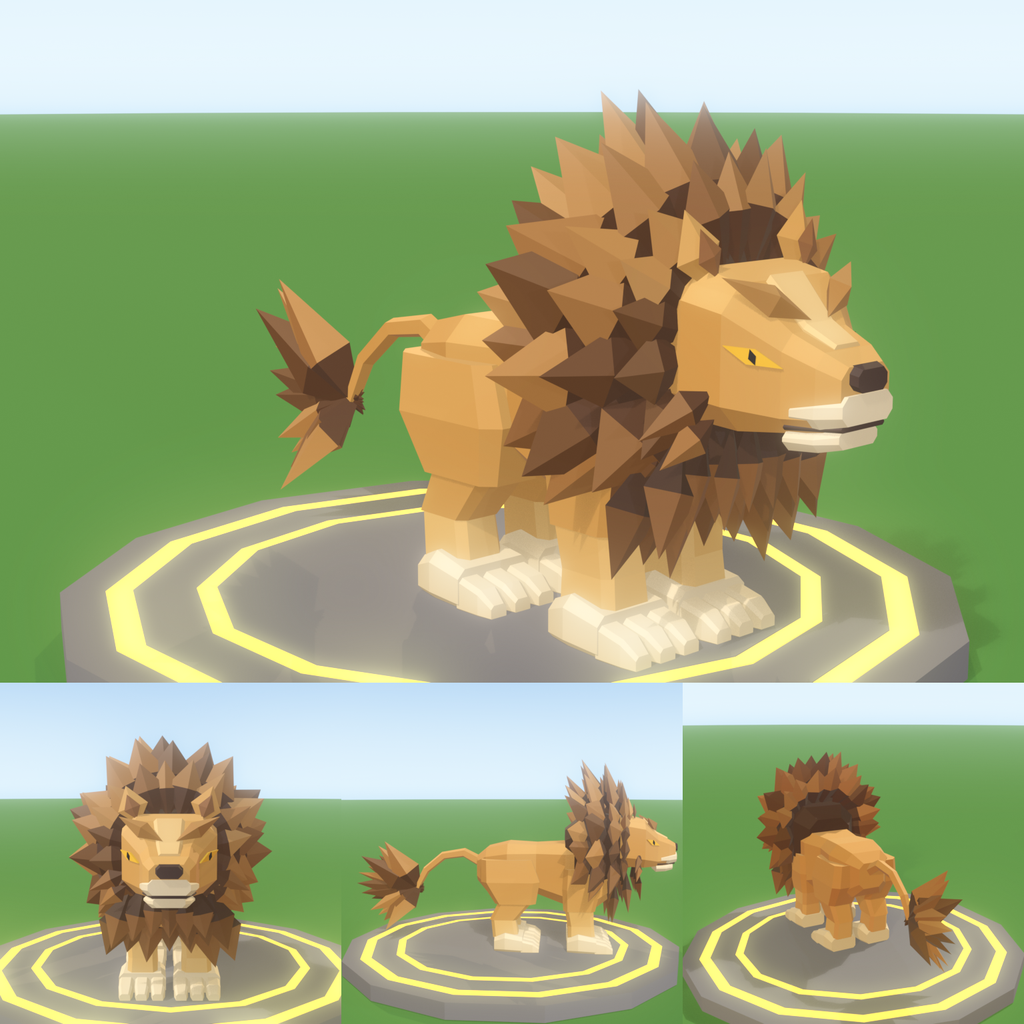
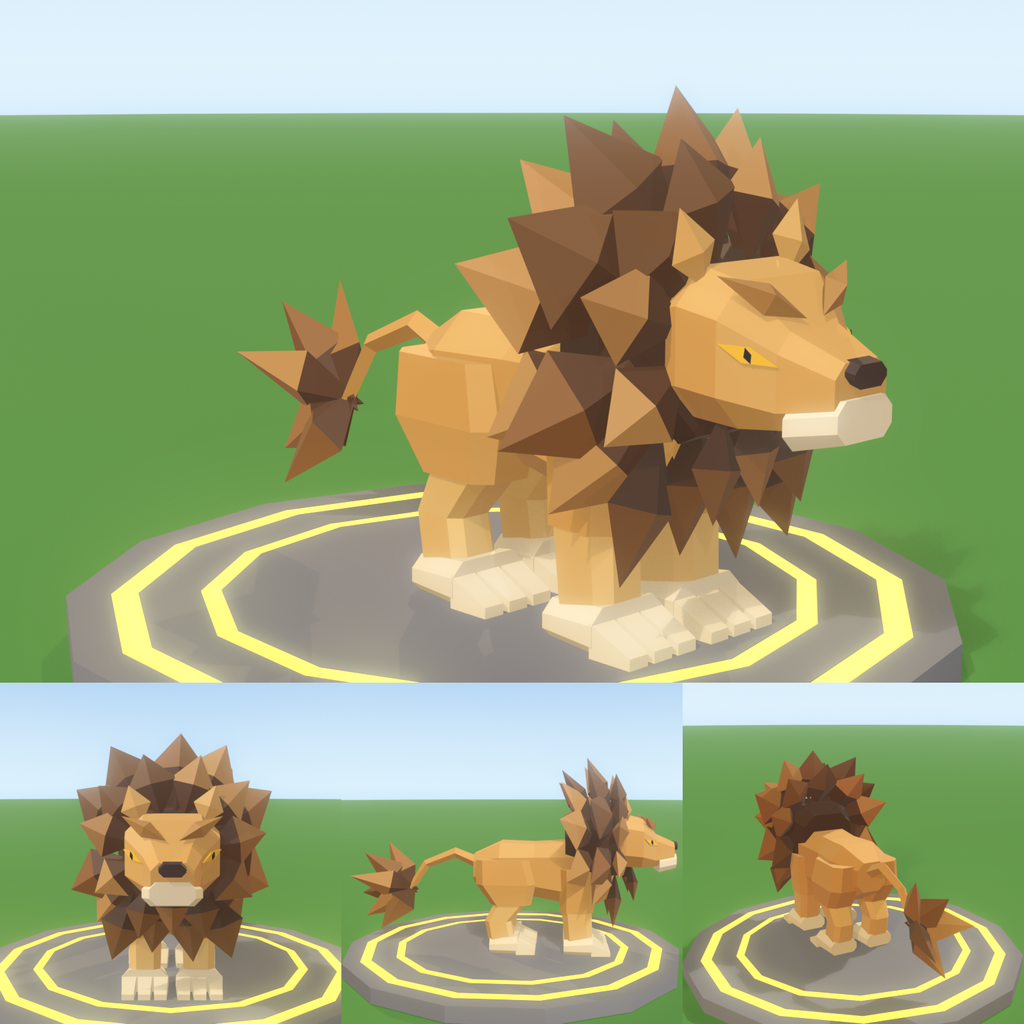
STATION-033: plainer lions, fewer and bigger facets (about 30 mane shards, 1,200 triangles)

diff --git a/tools/blender/stations/assets/lions.py b/tools/blender/stations/assets/lions.py
@@ -1,8 +1,11 @@
-"""The lions (decision 0050): the Lion, the Sun Lion and the Shadow Lion as faceted low-poly cats, after
-SHANNON's Sun Lion reference card. Blocky lofted bodies, big paws with three toes, an angular face
-with slit eyes, and a mane of layered crystal shards. Nothing is smooth: every face has one colour
-(the `lp` colour attribute), picked from three tones by which way the face points plus a little
-chance, so the facets read in any light and bake straight into the texture.
+"""The lions (decision 0050): the Lion, the Sun Lion and the Shadow Lion as chunky low-poly cats, after
+SHANNON's Sun Lion reference card. A few big blocks: a lofted body and legs, paws with three toes, a
+boxy head with slit eyes, and a mane of some thirty large crystal shards. Nothing is smooth: every
+face has one colour (the `lp` colour attribute), picked from three tones by which way the face points
+plus a little chance, so the facets read in any light and bake straight into the texture.
+
+Keep it plain: SHANNON found a denser version (75 shards, bevelled sections, small face pieces) too
+detailed. Add a piece only if it reads from across the arena.
 
 Jointed like every creature: body, head (with the mane), four legs, tail, and Neon `_glow` pieces.
 Facing Blender -Y; left is +X.
@@ -102,7 +105,8 @@ def loft(name, rings, tones, rng, **kw):
 
 
 def yring(y, zc, w, up, down, c, x=0.0):
-    """An upright rectangle with cut corners at depth y (a section of a body, a head, a paw)."""
+    """An upright rectangle with cut corners at depth y (a section of a body, a head, a paw). A big
+    cut `c` makes an even octagon: chunky, with no thin bevel faces."""
     top, bot = zc + up, zc - down
     return [(x + w - c, y, top), (x + w, y, top - c), (x + w, y, bot + c), (x + w - c, y, bot), (x + c - w, y, bot), (x - w, y, bot + c), (x - w, y, top - c), (x + c - w, y, top)]
 
@@ -112,7 +116,12 @@ def zring(x, y, z, wx, wy, c):
     return [(x + wx - c, y - wy, z), (x + wx, y - wy + c, z), (x + wx, y + wy - c, z), (x + wx - c, y + wy, z), (x - wx + c, y + wy, z), (x - wx, y + wy - c, z), (x - wx, y - wy + c, z), (x - wx + c, y - wy, z)]
 
 
-def shard(base, tip, width, thick, tones, rng, face=(0, -1, 0), at=0.36, m=None, emit=0.0, name="shard"):
+def quad(y, zc, w, up, down, x=0.0):
+    """A plain upright rectangle at depth y (a toe)."""
+    return [(x + w, y, zc + up), (x + w, y, zc - down), (x - w, y, zc - down), (x - w, y, zc + up)]
+
+
+def shard(base, tip, width, thick, tones, rng, face=(0, -1, 0), at=0.5, m=None, emit=0.0, name="shard"):
     """A crystal shard: a stretched eight-faced gem from base to tip, `width` across and `thick` through
     at its widest (`at` of the way along), its broad faces turned towards `face`. tones: one triple, or
     (root, tip) for a shard that lightens towards its point."""
@@ -140,63 +149,53 @@ def plate(name, p, frame, outline, thick, tones, rng, lift=0.004, m=None):
     return mesh(name, lo + [q + z * thick for q in lo], faces, tones, rng, m=m)
 
 
-def paw(x, y, tones, rng, claw=None):
-    """A broad block of a paw with three toes, from the heel at y + 0.42 to the toes at y - 0.9."""
-    parts = [loft("paw", [yring(y + 0.42, 0.24, 0.4, 0.2, 0.24, 0.1, x), yring(y + 0.1, 0.3, 0.5, 0.28, 0.3, 0.12, x), yring(y - 0.42, 0.26, 0.52, 0.22, 0.26, 0.1, x)], tones, rng)]
+def paw(x, y, tones, rng):
+    """A broad block of a paw with three wedge toes, from the heel at y + 0.42 to the toes at y - 0.9."""
+    parts = [loft("paw", [yring(y + 0.42, 0.24, 0.42, 0.2, 0.24, 0.14, x), yring(y - 0.4, 0.28, 0.52, 0.26, 0.28, 0.16, x)], tones, rng)]
     for dx in (-0.35, 0.0, 0.35):
-        parts.append(loft("toe", [yring(y - 0.38, 0.2, 0.155, 0.2, 0.2, 0.05, x + dx), yring(y - 0.72, 0.17, 0.15, 0.15, 0.17, 0.05, x + dx), yring(y - 0.9, 0.11, 0.11, 0.07, 0.11, 0.04, x + dx)], tones, rng))
-        if claw:
-            parts.append(shard((x + dx, y - 0.84, 0.15), (x + dx, y - 1.12, 0.02), 0.11, 0.09, claw, rng, face=(0, 0, 1), name="claw"))
+        parts.append(loft("toe", [quad(y - 0.36, 0.2, 0.16, 0.2, 0.2, x + dx), quad(y - 0.9, 0.1, 0.13, 0.06, 0.1, x + dx)], tones, rng))
     return parts
 
 
 def lion_model(p, seed):
-    """The faceted lion from a palette `p` (see the three makers below). Returns (groups, joints)."""
+    """The lion from a palette `p` (see the three makers below). Returns (groups, joints)."""
     rng = random.Random(seed)
-    T = lambda key: tone(p[key], p.get("kind", WARM))  # noqa: E731
+    kind = p.get("kind", WARM)
+    T = lambda key: tone(p[key], kind)  # noqa: E731
     body, fore, cream = T("body"), T("fore"), tone(p["paw"], p.get("paw_kind", PALE))
     glow = k.glow(p["glow"]) if p.get("glow") else None
     groups = {"body": [], "head": [], "head_glow": [], "body_glow": [], "tail": [], "tail_glow": []}
 
     # the torso: a deep chest, a tucked waist, square hips
-    torso = loft("torso", [yring(*r) for r in ((-1.0, 2.35, 0.55, 0.6, 0.65, 0.22), (-0.45, 2.3, 0.92, 0.95, 0.95, 0.28), (0.5, 2.3, 0.9, 0.9, 0.9, 0.28), (1.35, 2.38, 0.74, 0.78, 0.68, 0.24), (2.2, 2.35, 0.88, 0.85, 0.8, 0.28), (2.85, 2.35, 0.7, 0.7, 0.6, 0.24), (3.15, 2.4, 0.4, 0.4, 0.35, 0.15))], body, rng)
+    torso = loft("torso", [yring(*r) for r in ((-1.0, 2.35, 0.6, 0.65, 0.7, 0.3), (-0.3, 2.3, 0.95, 0.98, 0.98, 0.42), (1.3, 2.36, 0.8, 0.82, 0.74, 0.36), (2.3, 2.35, 0.9, 0.86, 0.82, 0.4), (3.1, 2.4, 0.45, 0.45, 0.4, 0.2))], body, rng)
     groups["body"].append(torso)
 
     # legs: the upper leg in the body's colour, the lower lighter, a pale paw
     thighs = {}
     for s in (1, -1):
         x = s * 0.6
-        front = [
-            loft("arm", [zring(x, 0.0, 2.5, 0.42, 0.55, 0.14), zring(x, 0.02, 1.9, 0.44, 0.56, 0.14), zring(x, 0.08, 1.25, 0.38, 0.46, 0.12)], body, rng),
-            loft("forearm", [zring(x, 0.08, 1.3, 0.35, 0.42, 0.11), zring(x, 0.02, 0.8, 0.32, 0.38, 0.1), zring(x, 0.0, 0.42, 0.34, 0.4, 0.1)], fore, rng),
-            *paw(x, 0.0, cream, rng, p.get("claw") and tone(p["claw"], PALE)),
-        ]
-        thigh = loft("thigh", [zring(x, 2.22, 2.75, 0.4, 0.74, 0.16), zring(x, 2.1, 2.1, 0.48, 0.86, 0.18), zring(x, 1.95, 1.45, 0.42, 0.6, 0.14)], body, rng)
-        back = [
-            thigh,
-            loft("shin", [zring(x, 1.95, 1.5, 0.36, 0.5, 0.12), zring(x, 2.32, 0.95, 0.31, 0.4, 0.1)], body, rng),
-            loft("hock", [zring(x, 2.32, 1.0, 0.3, 0.36, 0.1), zring(x, 2.24, 0.42, 0.32, 0.38, 0.1)], fore, rng),
-            *paw(x, 2.15, cream, rng, p.get("claw") and tone(p["claw"], PALE)),
-        ]
+        thigh = loft("thigh", [zring(x, 2.2, 2.75, 0.42, 0.76, 0.2), zring(x, 2.1, 2.05, 0.5, 0.86, 0.22), zring(x, 1.95, 1.45, 0.42, 0.58, 0.18)], body, rng)
         thighs[s] = thigh
-        groups["leg_f" + ("l" if s > 0 else "r")] = front
-        groups["leg_b" + ("l" if s > 0 else "r")] = back
+        groups["leg_f" + ("l" if s > 0 else "r")] = [
+            loft("arm", [zring(x, 0.0, 2.5, 0.44, 0.56, 0.2), zring(x, 0.06, 1.25, 0.4, 0.48, 0.18)], body, rng),
+            loft("forearm", [zring(x, 0.06, 1.3, 0.36, 0.43, 0.16), zring(x, 0.0, 0.42, 0.34, 0.4, 0.15)], fore, rng),
+            *paw(x, 0.0, cream, rng),
+        ]
+        groups["leg_b" + ("l" if s > 0 else "r")] = [
+            thigh,
+            loft("shin", [zring(x, 1.95, 1.5, 0.36, 0.48, 0.15), zring(x, 2.34, 0.95, 0.31, 0.38, 0.13), zring(x, 2.24, 0.42, 0.32, 0.38, 0.13)], fore, rng),
+            *paw(x, 2.15, cream, rng),
+        ]
 
-    # the head: a boxy muzzle stepping up to a broad brow
-    hc = Vector((0, -1.5, 3.2))
-    skull = loft("skull", [yring(*r) for r in ((-2.45, 2.98, 0.3, 0.22, 0.22, 0.09), (-2.28, 2.98, 0.4, 0.32, 0.3, 0.11), (-2.0, 3.0, 0.46, 0.42, 0.36, 0.13), (-1.65, 3.15, 0.76, 0.64, 0.52, 0.22), (-1.25, 3.2, 0.78, 0.68, 0.55, 0.24), (-0.8, 3.15, 0.64, 0.6, 0.5, 0.22))], body, rng)
+    # the head: a boxy muzzle stepping up to a broad brow, one pale block for the lips and chin
+    skull = loft("skull", [yring(*r) for r in ((-2.45, 2.98, 0.32, 0.24, 0.24, 0.12), (-2.0, 3.0, 0.46, 0.42, 0.36, 0.16), (-1.65, 3.15, 0.76, 0.64, 0.52, 0.28), (-1.25, 3.2, 0.78, 0.68, 0.55, 0.3), (-0.8, 3.15, 0.64, 0.6, 0.5, 0.26))], body, rng)
     head = groups["head"]
     head.append(skull)
-    muzzle = tone(p["muzzle"], p.get("paw_kind", PALE))
-    head.append(loft("lips", [yring(-2.48, 2.88, 0.315, 0.1, 0.13, 0.07), yring(-2.28, 2.86, 0.415, 0.12, 0.15, 0.09), yring(-2.08, 2.84, 0.455, 0.1, 0.13, 0.09)], muzzle, rng))
-    head.append(loft("mouth", [yring(-2.44, 2.72, 0.27, 0.025, 0.025, 0.02), yring(-2.0, 2.7, 0.42, 0.025, 0.025, 0.02)], tone(p["nose"]), rng))
-    head.append(loft("chin", [yring(-2.4, 2.62, 0.24, 0.085, 0.07, 0.05), yring(-2.22, 2.6, 0.33, 0.09, 0.09, 0.07), yring(-1.98, 2.6, 0.4, 0.09, 0.1, 0.08)], muzzle, rng))
-    head.append(loft("nose", [yring(-2.52, 3.1, 0.18, 0.08, 0.1, 0.05), yring(-2.34, 3.14, 0.24, 0.1, 0.1, 0.06), yring(-2.26, 3.2, 0.17, 0.06, 0.06, 0.04)], tone(p["nose"]), rng))
-    head.append(loft("bridge", [yring(-2.27, 3.3, 0.16, 0.04, 0.04, 0.03), yring(-2.0, 3.43, 0.2, 0.05, 0.05, 0.04), yring(-1.66, 3.78, 0.25, 0.05, 0.1, 0.05)], T("bridge"), rng))
+    head.append(loft("muzzle", [yring(-2.5, 2.8, 0.34, 0.14, 0.2, 0.1), yring(-2.08, 2.76, 0.47, 0.14, 0.26, 0.13)], tone(p["muzzle"], p.get("paw_kind", PALE)), rng))
+    head.append(loft("nose", [yring(-2.54, 3.12, 0.2, 0.09, 0.1, 0.07), yring(-2.3, 3.18, 0.22, 0.08, 0.08, 0.07)], tone(p["nose"]), rng))
     for s in (1, -1):
         head.append(shard((s * 0.1, -2.0, 3.5), (s * 0.8, -1.68, 3.86), 0.28, 0.24, T("brow"), rng, face=(0, -1, 0.3), at=0.45, name="brow"))
         head.append(shard((s * 0.5, -1.3, 3.7), (s * 0.72, -1.22, 4.34), 0.52, 0.22, body, rng, at=0.45, name="ear"))
-        head.append(shard((s * 0.53, -1.41, 3.8), (s * 0.69, -1.36, 4.2), 0.28, 0.1, T("ear_in"), rng, at=0.45, name="ear"))
         # a slanted slit of an eye on the plane between the muzzle and the cheek
         at, n = k.land(skull, (s * 0.55, -1.8, 3.24), (s * 0.6, -0.8, 0.0))
         fx, fy, fz = k._frame(n)
@@ -206,62 +205,53 @@ def lion_model(p, seed):
         else:
             head.append(plate("eye", at, (fx * s, fy, fz), slit, 0.035, tone(p["iris"]), rng))
             head.append(plate("pupil", at, (fx * s, fy, fz), [(0.0, -0.05), (0.055, 0.0), (0.045, 0.075), (-0.005, 0.02)], 0.02, tone(INK), rng, lift=0.036))
-        for j, (dz, long_) in enumerate(((0.0, 0.75), (-0.22, 0.6))):  # cheek tufts
-            c0 = Vector((s * 0.7, -1.55, 2.95 + dz))
-            head.append(shard(c0, c0 + Vector((s * 0.75, 0.25, -0.4 - j * 0.2)).normalized() * long_, 0.34, 0.16, (tone(p["mane_root"], p.get("mane_kind", p.get("kind", WARM))), tone(p["mane"][j % len(p["mane"])], p.get("mane_kind", p.get("kind", WARM)))), rng, face=(0, -1, 0.2)))
-    if p.get("fang"):
-        for s in (1, -1):
-            head.append(shard((s * 0.24, -2.36, 2.74), (s * 0.24, -2.38, 2.42), 0.11, 0.09, tone(p["fang"], PALE), rng, name="fang"))
-
+        if p.get("fang"):
+            head.append(shard((s * 0.24, -2.36, 2.62), (s * 0.24, -2.38, 2.28), 0.13, 0.1, tone(p["fang"], PALE), rng, name="fang"))
     grow = Matrix.Translation((0, -1.0, 3.1)) @ Matrix.Scale(HEAD, 4) @ Matrix.Translation((0, 1.0, -3.1))
     for ob in head + groups["head_glow"]:
         ob.data.transform(grow)
 
-    # the mane: a dark core, then rings of shards raked back, long on top, and a bib down the chest
-    head.append(loft("core", [yring(-1.2, 3.15, 0.8, 0.8, 0.75, 0.3), yring(-0.6, 3.05, 1.1, 1.05, 1.0, 0.4), yring(0.05, 2.95, 1.05, 1.0, 0.95, 0.4), yring(0.5, 2.9, 0.7, 0.7, 0.65, 0.28)], T("core"), rng, emit=p.get("lit", 0.0)))
-    kind, lit = p.get("mane_kind", p.get("kind", WARM)), p.get("lit", 0.0)
+    # the mane: a core, three rings of big shards raked back, and a bib down the chest
+    mane_kind, lit = p.get("mane_kind", kind), p.get("lit", 0.0)
+    root, deep = tone(p["mane_root"], mane_kind), tone(p["bib_root"], mane_kind)
+    head.append(loft("core", [yring(-1.2, 3.15, 0.85, 0.85, 0.8, 0.36), yring(-0.5, 3.05, 1.15, 1.1, 1.05, 0.48), yring(0.4, 2.95, 0.8, 0.8, 0.75, 0.34)], T("core"), rng, emit=lit))
+    count = 0
 
-    def lock(base, tip, width, tips, root, face, spark):
-        if spark and glow:
-            groups["head_glow"].append(shard(base, tip, width * 0.4, width * 0.22, None, rng, face=face, at=0.5, m=glow))
+    def lock(base, tip, width, tips, tones, face):
+        nonlocal count
+        count += 1
+        if glow and p.get("sparks") and count % p["sparks"] == 0:  # every so many, a glowing one
+            groups["head_glow"].append(shard(base, tip, width * 0.6, width * 0.3, None, rng, face=face, m=glow))
         else:
-            head.append(shard(base, tip, width, width * 0.4, (root, tone(rng.choice(tips), kind)), rng, face=face, at=0.5, emit=lit))
+            head.append(shard(base, tip, width, width * 0.45, (tones, tone(rng.choice(tips), mane_kind)), rng, face=face, emit=lit))
 
-    def ring(y, zc, radius, n, length, width, sweep, a0, a1, tips, root):
+    for y, zc, radius, n, length, width, sweep, a0, a1 in ((-1.15, 3.3, 0.95, 8, 0.95, 1.0, 0.15, -40, 220), (-0.8, 3.22, 1.05, 9, 1.35, 1.3, 0.45, -58, 238), (-0.3, 3.12, 1.0, 7, 1.3, 1.3, 0.75, -30, 210)):
         for i in range(n):
             a = math.radians(a0 + (a1 - a0) * (i + 0.5) / n + rng.uniform(-5, 5))
             out = Vector((math.cos(a), 0, math.sin(a)))
             d = (out + Vector((0, sweep, -0.3 if out.z < -0.2 else 0.12))).normalized()
             base = Vector((0, y, zc)) + out * radius
             long_ = length * rng.uniform(0.9, 1.1) * (1 + 0.22 * max(0.0, out.z))
-            face = Vector((rng.uniform(-0.12, 0.12), -0.7, rng.uniform(-0.1, 0.12))) + out
-            lock(base - d * 0.25, base + d * long_, width * rng.uniform(0.85, 1.15), tips, root, face, p.get("sparks") and i % p["sparks"] == 1)
-
-    root, deep = tone(p["mane_root"], kind), tone(p["bib_root"], kind)
-    ring(-1.2, 3.3, 0.92, 13, 0.8, 0.66, 0.1, -40, 220, p["mane"], root)
-    ring(-0.98, 3.25, 1.02, 15, 1.1, 0.92, 0.3, -62, 242, p["mane"], root)
-    ring(-0.6, 3.2, 1.08, 15, 1.25, 1.05, 0.5, -52, 232, p["mane"], root)
-    ring(-0.2, 3.12, 1.02, 12, 1.15, 1.0, 0.7, -32, 212, p["mane"], root)
-    for y, z, half, n, long_, width, lean in ((-1.62, 2.5, 0.55, 5, 0.75, 0.52, -0.1), (-1.25, 2.55, 0.85, 7, 1.15, 0.7, -0.05), (-0.92, 2.35, 0.95, 7, 1.35, 0.78, 0.08)):
+            lock(base - d * 0.25, base + d * long_, width * rng.uniform(0.9, 1.1), p["mane"], root, Vector((0, -0.7, 0)) + out)
+    for y, z, half, n, long_, width, lean in ((-1.5, 2.55, 0.5, 3, 0.9, 0.75, -0.08), (-1.0, 2.45, 0.85, 4, 1.4, 0.95, 0.05)):
         for i in range(n):
             x = half * (2 * i / (n - 1) - 1)
             base = Vector((x, y, z - abs(x) * 0.25))
             d = Vector((x * 0.38, lean, -1)).normalized()
-            lock(base - d * 0.2, base + d * long_ * rng.uniform(0.85, 1.15), width, p["bib"], deep, (rng.uniform(-0.2, 0.2), -1, 0), False)
+            lock(base - d * 0.2, base + d * long_ * rng.uniform(0.9, 1.1), width, p["bib"], deep, (0, -1, 0))
 
-    # the tail: thin, rising from the rump and falling to a flame of a tuft
-    t0, tip = Vector((0, 3.05, 2.55)), Vector((0, 5.1, 1.75))
-    tail = k.tube([t0, Vector((0, 3.6, 2.85)), Vector((0, 4.25, 2.75)), Vector((0, 4.8, 2.3)), tip], [0.17, 0.15, 0.13, 0.12, 0.1], m=material(), n=5, name="tail")
+    # the tail: thin, rising from the rump and falling to a fan of six shards
+    t0, tip = Vector((0, 3.0, 2.55)), Vector((0, 5.1, 1.75))
+    tail = k.tube([t0, Vector((0, 3.7, 2.85)), Vector((0, 4.6, 2.5)), tip], [0.18, 0.16, 0.13, 0.11], m=material(), n=4, name="tail")
     groups["tail"].append(colour(tail, body, rng))
-    for i in range(13):
-        a = math.radians(-55 + 115 * (i * 5 % 13) / 12)  # from down and back round to up and back
-        d = Vector((rng.uniform(-0.4, 0.4), math.cos(a), math.sin(a))).normalized()
-        long_ = rng.uniform(1.1, 1.5) + 0.5 * math.cos(a - 0.2)
-        width = rng.uniform(0.6, 0.9)
-        if glow and p.get("sparks") and i % 5 == 2:
-            groups["tail_glow"].append(shard(tip - d * 0.1, tip + d * long_ * 0.75, width * 0.7, width * 0.4, None, rng, face=(1, 0, 0.3), at=0.42, m=glow))
+    for i in range(6):
+        a = math.radians(-55 + 23 * i)  # from down and back round to up and back
+        d = Vector(((i % 3 - 1) * 0.3, math.cos(a), math.sin(a))).normalized()
+        long_ = 1.3 + 0.55 * math.cos(a - 0.2)
+        if glow and p.get("sparks") and i == 3:
+            groups["tail_glow"].append(shard(tip - d * 0.2, tip + d * long_, 0.6, 0.35, None, rng, face=(1, 0, 0.3), at=0.42, m=glow))
         else:
-            groups["tail"].append(shard(tip - d * 0.25, tip + d * long_, width, width * 0.5, (root, tone(rng.choice(p["mane"]), kind)), rng, face=(rng.choice((-1, 1)), 0, 0.3), at=0.42, emit=lit))
+            groups["tail"].append(shard(tip - d * 0.25, tip + d * long_, 0.95, 0.5, (root, tone(p["mane"][i % len(p["mane"])], mane_kind)), rng, face=(1 if i % 2 else -1, 0, 0.3), at=0.42, emit=lit))
 
     extra = p.get("extra")
     if extra:
@@ -273,57 +263,49 @@ def lion_model(p, seed):
 def lion():
     """Lion: tawny, a dark brown mane, pale paws and muzzle, amber eyes."""
     return lion_model(
-        dict(body=(214, 158, 80), fore=(226, 178, 102), paw=(236, 218, 180), muzzle=(238, 222, 188), nose=(62, 40, 34), brow=(176, 122, 58), bridge=(232, 188, 118), ear_in=(150, 96, 50), iris=(244, 180, 40),
+        dict(body=(214, 158, 80), fore=(226, 178, 102), paw=(236, 218, 180), muzzle=(238, 222, 188), nose=(62, 40, 34), brow=(176, 122, 58), iris=(244, 180, 40),
              core=(74, 44, 24), mane_root=(88, 52, 26), mane=[(142, 92, 44), (168, 114, 56), (114, 72, 34), (188, 134, 70)], bib_root=(70, 42, 22), bib=[(120, 76, 36), (142, 92, 46)]),
         3,
     )
 
 
 def sun_extra(groups, torso, thighs, rng, glow):
-    """A sun on each haunch: a disc and eight rays, raised a hair off the thigh."""
-    gold = tone((255, 228, 120))
+    """A sun on each haunch: one eight-pointed star, raised a hair off the thigh."""
+    star = [((0.44 if i % 2 == 0 else 0.2) * math.cos(i * math.tau / 16), (0.44 if i % 2 == 0 else 0.2) * math.sin(i * math.tau / 16)) for i in range(16)]
     for s in (1, -1):
         at, n = k.land(thighs[s], (s * 0.5, 2.1, 2.2), (s, 0, 0))
-        fx, fy, fz = k._frame(n)
-        frame = (fx, fy, fz)
-        side = "leg_b" + ("l" if s > 0 else "r")
-        groups[side].append(plate("sun", at, frame, [(0.19 * math.cos(i * math.tau / 8), 0.19 * math.sin(i * math.tau / 8)) for i in range(8)], 0.03, gold, rng))
-        for i in range(8):
-            a = (i + 0.5) * math.tau / 8
-            c, s_ = math.cos(a), math.sin(a)
-            ray = [(0.25 * c - 0.07 * s_, 0.25 * s_ + 0.07 * c), (0.46 * c, 0.46 * s_), (0.25 * c + 0.07 * s_, 0.25 * s_ - 0.07 * c)]
-            groups[side].append(plate("ray", at, frame, ray, 0.03, gold, rng))
+        groups["leg_b" + ("l" if s > 0 else "r")].append(plate("sun", at, k._frame(n), star, 0.03, tone((255, 228, 120)), rng))
 
 
 def sun_lion():
-    """Sun Lion (mythic): a golden coat, a blazing mane of yellow crystal with white-hot sparks, a sun
-    on each haunch, a flame of a tail."""
+    """Sun Lion (mythic): a golden coat, a mane of yellow crystal, a sun on each haunch, glowing eyes, a
+    flame of a tail."""
     return lion_model(
-        dict(body=(242, 150, 38), fore=(252, 184, 64), paw=(250, 226, 176), muzzle=(250, 228, 180), mane_kind=FIRE, nose=(118, 62, 38), brow=(226, 122, 30), bridge=(255, 198, 86), ear_in=(206, 96, 30),
+        dict(body=(242, 150, 38), fore=(252, 184, 64), paw=(250, 226, 176), muzzle=(250, 228, 180), mane_kind=FIRE, nose=(118, 62, 38), brow=(226, 122, 30),
              core=(214, 104, 22), mane_root=(240, 140, 24), mane=[(255, 210, 44), (255, 222, 70), (255, 196, 36), (255, 226, 84)], bib_root=(214, 104, 22), bib=[(248, 164, 36), (255, 190, 46), (255, 210, 60)],
-             glow=SUNFIRE, glow_eyes=True, sparks=6, lit=0.08, extra=sun_extra),
+             glow=SUNFIRE, glow_eyes=True, lit=0.08, extra=sun_extra),
         5,
     )
 
 
 def shadow_extra(groups, torso, thighs, rng, glow):
-    """Glowing ribs down both flanks and a spine of bone."""
+    """Three glowing ribs down each flank and a spine of four bone plates."""
     for s in (1, -1):
-        for i in range(5):
-            y = 0.78 + i * 0.25
-            top, _ = k.land(torso, (0, y, 2.85), (s, 0, 0))
-            low, _ = k.land(torso, (0, y + 0.14, 1.95 + abs(i - 3) * 0.04), (s, 0, 0))
-            groups["body_glow"].append(shard(top + Vector((s * 0.02, 0, 0)), low + Vector((s * 0.02, 0, 0)), 0.15, 0.07, None, rng, face=(s, 0, 0), at=0.25, m=glow, name="rib"))
-    for i in range(8):
-        base = Vector((0, 1.0 + i * 0.26, 3.1 - abs(i - 4.5) * 0.02))
-        groups["body"].append(shard(base, base + Vector((0, 0.22, 0.6 - i * 0.03)), 0.3, 0.2, tone(BONE, PALE), rng, face=(1, 0, 0), name="spine"))
+        for i in range(3):
+            y = 0.9 + i * 0.4
+            top, _ = k.land(torso, (0, y, 2.8), (s, 0, 0))
+            low, _ = k.land(torso, (0, y + 0.16, 1.95), (s, 0, 0))
+            groups["body_glow"].append(shard(top + Vector((s * 0.02, 0, 0)), low + Vector((s * 0.02, 0, 0)), 0.24, 0.08, None, rng, face=(s, 0, 0), at=0.3, m=glow, name="rib"))
+    for i in range(4):
+        base = Vector((0, 1.05 + i * 0.5, 3.05))
+        groups["body"].append(shard(base, base + Vector((0, 0.3, 0.8 - i * 0.08)), 0.5, 0.26, tone(BONE, PALE), rng, face=(1, 0, 0), at=0.4, name="spine"))
 
 
 def shadow_lion():
-    """Shadow Lion (legendary): ink black, a bone mask and spine, a mane of black crystal shot with green
+    """Shadow Lion (legendary): ink black, a bone mask and spine, a mane of black crystal with a few green
     shards, glowing green ribs, eyes and tail."""
     return lion_model(
-        dict(kind=COOL, paw_kind=COOL, body=(30, 32, 44), fore=(40, 44, 60), paw=(58, 62, 80), muzzle=BONE, nose=(14, 16, 20), brow=BONE, bridge=BONE, ear_in=(66, 76, 98), claw=BONE, fang=BONE,
+        dict(kind=COOL, paw_kind=COOL, body=(30, 32, 44), fore=(40, 44, 60), paw=(58, 62, 80), muzzle=BONE, nose=(14, 16, 20), brow=BONE, fang=BONE,
              core=(8, 9, 13), mane_root=(10, 11, 16), mane=[(34, 40, 56), (22, 26, 38), (50, 58, 78), (16, 18, 26)], bib_root=(8, 9, 13), bib=[(26, 30, 42), (38, 44, 60)],
              glow=SHADOW, glow_eyes=True, sparks=5, extra=shadow_extra),
         7,
@@ -338,13 +320,13 @@ def asset(name, maker, scale, glow, note):
         joints.update(j)
         return groups
 
-    # the budget is only a ceiling for the build's check: these models are a few thousand triangles
+    # the budget is only a ceiling for the build's check: these models are about a thousand triangles
     return dict(name=name, build=build, scale=scale, budget=20000, finalize=k.HD, joints=joints, glow=glow, notes=note)
 
 
 # scales keep each lion about as long as the model it replaces (13, 16 and 15 studs), tail flame included
 ASSETS = [
-    asset("creature_lion", lion, 1.3, {}, "Lion: a faceted tawny cat with a mane of brown crystal shards."),
-    asset("creature_lion_sun", sun_lion, 1.65, {"head_glow": SUNFIRE, "tail_glow": SUNFIRE}, "Sun Lion (mythic): golden, a blazing mane of yellow crystal, a sun on each haunch."),
+    asset("creature_lion", lion, 1.3, {}, "Lion: a chunky low-poly tawny cat with a mane of big brown shards."),
+    asset("creature_lion_sun", sun_lion, 1.65, {"head_glow": SUNFIRE}, "Sun Lion (mythic): golden, a mane of big yellow shards, a sun on each haunch, glowing eyes."),
     asset("creature_lion_shadow", shadow_lion, 1.5, {"head_glow": SHADOW, "body_glow": SHADOW, "tail_glow": SHADOW}, "Shadow Lion (legendary): ink black, a bone mask and spine, glowing green ribs and shards."),
 ]

diff --git a/tools/blender/stations/kit.py b/tools/blender/stations/kit.py
@@ -148,7 +148,7 @@ def _bloom(rgb):
     lum = rgb @ np.array([0.3, 0.59, 0.11], dtype=np.float32)
     small = (rgb * np.clip((lum - 0.72) / 0.2, 0, 1)[..., None])[::4, ::4]
     out = rgb
-    for sigma, strength in ((3, 0.6), (16, 0.9)):
+    for sigma, strength in ((3, 0.5), (16, 0.6)):
         halo = np.stack([_night._blur(small[..., c], sigma) for c in range(3)], axis=-1)
         halo = np.repeat(np.repeat(halo, 4, axis=0), 4, axis=1)[: rgb.shape[0], : rgb.shape[1]]
         halo = np.stack([_night._blur(halo[..., c], 2) for c in range(3)], axis=-1)

diff --git a/docs/decisions/0050-animal-stations-faceted-lion-style.md b/docs/decisions/0050-animal-stations-faceted-lion-style.md
@@ -12,18 +12,21 @@ plain preview).
 
 - The Lion, the Sun Lion and the new Shadow Lion are built from scratch in
   `tools/blender/stations/assets/lions.py`, no longer on the predator body in `animals.py`: lofted
-  blocky bodies and legs, paws with three toes, an angular face with slit eyes, a mane of about 75
-  layered crystal shards with a bib down the chest, and a flame of a tail tuft.
+  blocky bodies and legs, paws with three toes, a boxy face with slit eyes, a mane of about 30 big
+  crystal shards with a bib down the chest, and a fan of six shards for the tail tuft.
 - Nothing is smooth and nothing is painted with gradients. Every face has one colour (the `lp`
   colour attribute), picked from three tones by which way the face points plus a little chance, and
   that bakes straight into the texture. Shards lighten from root to tip.
-- Sun Lion: golden, a sun on each haunch, glowing eyes and a few Neon sparks in the mane and tail.
-  Shadow Lion: ink black, a bone mask, spine, claws and fangs, glowing green ribs, eyes and shards.
-  The Lion and the Sun Lion have no claws or fangs, as on the reference.
+- Sun Lion: golden, a star of a sun on each haunch, glowing eyes. Shadow Lion: ink black, a bone
+  mask, spine and fangs, glowing green ribs, eyes and a few shards. No lion has claws, and the Lion
+  and the Sun Lion have no fangs, as on the reference.
+- Kept plain on purpose. A first version (about 75 shards, bevelled sections, a nose bridge, cheek
+  tufts, a mouth line, an eight-rayed sun, claws) was too detailed for SHANNON; this one has fewer,
+  bigger faces. Add a piece only if it reads from across the arena.
 - The rig is the same set of pieces (body, head with the mane, four legs, tail, glow pieces); the
   joints moved a little and are recorded per build as before. Each lion is scaled to about the length
   of the model it replaces (13, 16 and 15 studs), so the arena spacing holds.
-- About 2,400 to 2,650 triangles each. The budget is no longer a design limit for these models.
+- About 1,200 to 1,300 triangles each. The budget is no longer a design limit for these models.
 - `build.py --beauty` renders a presentation card of an asset (a hero shot on a pedestal with bloom,
   and front, side and back views) to `build/blender/stations/beauty`; the cards in `docs/concepts`
   come from it. The pedestal, rings and bloom are render dressing, not part of the model.

diff --git a/docs/game-design/game7-animals.md b/docs/game-design/game7-animals.md
@@ -63,9 +63,9 @@ player is about 5 tall).
 | Storm Meerkat | | legendary | twist mana | Thundercloud coat, glowing bands across the back, a charged tail tip. | 3 x 6 |
 | Flamingo | Utility | uncommon | 30 / 10 / 30 / 65 / 50 / 15 | Tall pink wader, hooked black-tipped beak, hard stare. Two legs: its wings are built as the back legs. | 8 x 6 |
 | Phoenix Flamingo | | mythic | twist mana | Fire-red, with a crest, wing tips and tail of flame. | 11 x 8 |
-| Lion | Attack | rare | 55 / 90 / 40 / 25 / 70 / 30 | Faceted low-poly (decision 0050): a blocky tawny cat, a mane of brown crystal shards, pale paws and muzzle, amber slit eyes, a tufted tail. Card: `docs/concepts/lion-card.png`. | 7 x 13 |
-| Sun Lion | | mythic | twist strength | Golden, a blazing mane of yellow crystal shards with Neon sparks, a sun on each haunch, glowing eyes, a flame of a tail. Card: `docs/concepts/sun-lion-card.png`. | 9 x 16 |
-| Shadow Lion (concept, not in the game yet) | | legendary | twist speed | Ink black, a bone mask, spine, claws and fangs, a mane of black crystal shot with glowing green shards, green ribs and eyes. Card: `docs/concepts/shadow-lion-concept.png`; the model is `creature_lion_shadow` in `tools/blender/stations/assets/lions.py`. | about 9 x 15 |
+| Lion | Attack | rare | 55 / 90 / 40 / 25 / 70 / 30 | Faceted low-poly (decision 0050): a chunky tawny cat, a mane of big brown crystal shards, pale paws and muzzle, amber slit eyes, a tufted tail. Card: `docs/concepts/lion-card.png`. | 7 x 13 |
+| Sun Lion | | mythic | twist strength | Golden, a mane of big yellow crystal shards, a star of a sun on each haunch, glowing eyes, a flame of a tail. Card: `docs/concepts/sun-lion-card.png`. | 9 x 16 |
+| Shadow Lion (concept, not in the game yet) | | legendary | twist speed | Ink black, a bone mask, spine and fangs, a mane of big black crystal shards with a few glowing green ones, green ribs and eyes. Card: `docs/concepts/shadow-lion-concept.png`; the model is `creature_lion_shadow` in `tools/blender/stations/assets/lions.py`. | about 9 x 15 |
 | Elephant (Titan) | Titan | legendary | 30 / 160 / 180 / 60 / 200 / 120 | War elephant: wide ears, heavy brow, long trunk and tusks. | 15 x 25 |
 | Frost Mammoth | | mythic | twist health | Pale and shaggy, huge glowing ice tusks, ice spikes down its back. | 20 x 30 |
 
